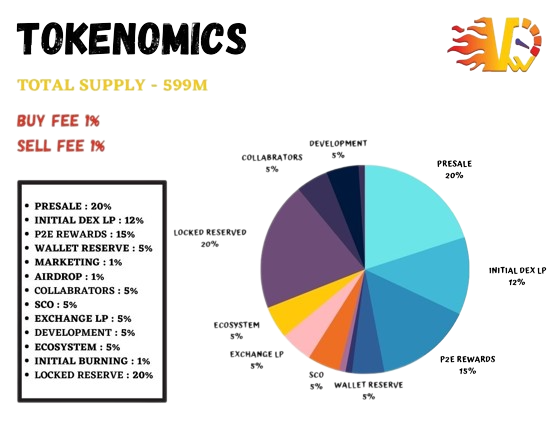
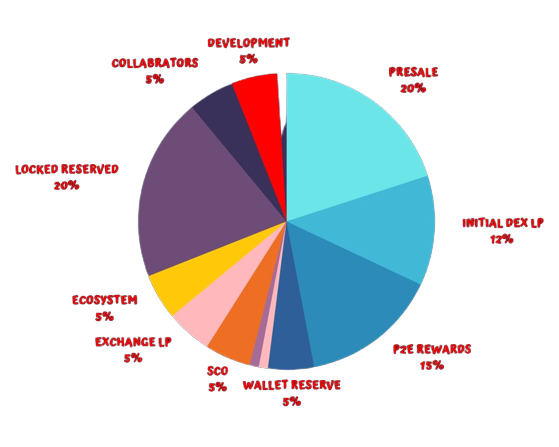
tokenomics  update

diff --git a/src/pages/Home.jsx b/src/pages/Home.jsx
@@ -21,9 +21,57 @@ import dataPartner from "../assets/fake-data/data-partner"
 import FAQ from "../features/faq"
 import dataFaq from "../assets/fake-data/data-faq"
 
-import img1 from "../assets/images/TOKENOMICS.jpg"
+import img1 from "../assets/images/tokenomics.png"
+import RoadMapItem from "../features/roadmap/roadmap-item"
 
 function HomeOne(props) {
+    const tokenomics = {
+        id: 1,
+        time: "TOTAL SUPPLY - 599M",
+        list: [
+            {
+                text: "PRESALE 20%",
+            },
+            {
+                text: "INITIAL DEX LP 12% ",
+            },
+            {
+                text: "P2E REWARDS 15%",
+            },
+            {
+                text: "WALLET RESERVE 5%",
+            },
+            {
+                text: "MARKETING 1%",
+            },
+            {
+                text: "Airdrop 1%",
+            },
+            {
+                text: "Collaborators 5%",
+            },
+            {
+                text: "SCO 5%",
+            },
+            {
+                text: "Exchange LP 5%",
+            },
+            {
+                text: "Development 5%",
+            },
+            {
+                text: "Ecosystem 5%",
+            },
+            {
+                text: "Initial Burning 1%",
+            },
+            {
+                text: "Locked Reserve 20%",
+            },
+        ],
+        positon: "left",
+        style: "normal",
+    }
     return (
         <div className="home-1">
             <Slider data={dataSlider} />
@@ -52,16 +100,19 @@ function HomeOne(props) {
                                     <p className="h8 sub-title">Token </p>
                                     <h4 className="title">Tokenomics</h4>
                                 </div>
-                                <p></p>
+                                <h6>Buy Fee: 1% Sell Fee: 1%</h6>
+                                <p>
+                                    <RoadMapItem item={tokenomics} />
+                                </p>
                             </div>
                         </div>
                         <div className="col-xl-7 col-md-12">
                             <div
-                                className="wrap-about"
+                                className="wrap-tokenomics"
                                 data-aos="fade-up"
                                 data-aos-duration="800"
                             >
-                                <img src={img1} alt="tokenomics" />
+                            <img src={img1} alt="tokenomics" width={"800px"}/>
                             </div>
                         </div>
                     </div>

diff --git a/src/assets/fake-data/data-about.js b/src/assets/fake-data/data-about.js
@@ -3,7 +3,7 @@ const dataAbout = [
         id: 1,
         title: 'Marketplace',
         desc: 'Players can use the token to compete in tournaments, buy cars, and New skins, and perform mechanical modifications.',
-        class: 'active'
+        class: ''
     },
     {
         id: 2,
@@ -14,6 +14,11 @@ const dataAbout = [
         id: 3,
         title: 'Race',
         desc: 'In the game, players will compete in tournaments for which they will be paid, as well as a race on Tracks all across the metaverse.',
+    },
+    {
+        id: 4,
+        title: 'Wallet',
+        desc: 'VPW is a cutting-edge multi-chain EVM wallet that empowers users to seamlessly manage their digital assets across multiple blockchains.',
     },
 ]
 

diff --git a/src/features/about/styles.scss b/src/features/about/styles.scss
@@ -58,6 +58,14 @@
     }
 }
 
+.wrap-tokenomics {
+    display: grid;
+    place-items: center;
+    // margin-top: 150px;
+    // margin-left: 150px;
+    
+}
+
 .wrap-about {
     .box-text {
         margin-bottom: 24px;
